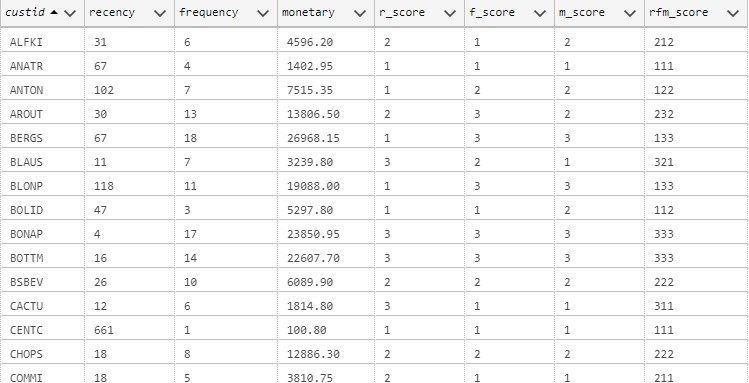
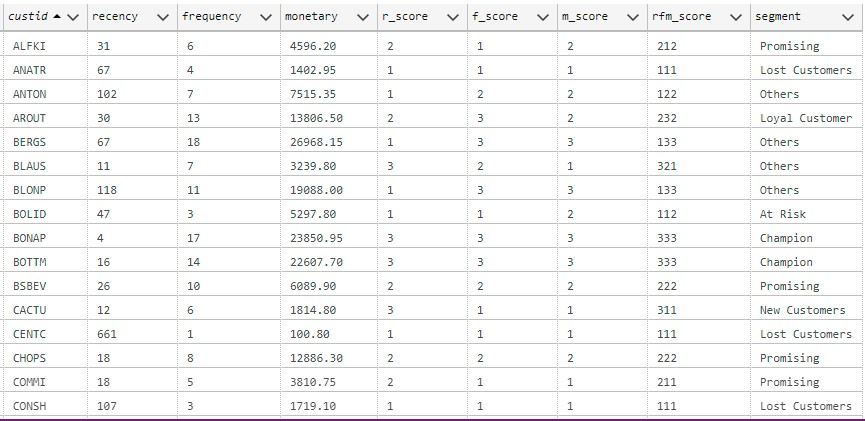
update

Changed region(s): [[0.0, 0.0, 1.0, 1.0]]

diff --git a/projects/rfm_customer_segmentation.html b/projects/rfm_customer_segmentation.html
@@ -137,7 +137,12 @@
 									then creating FRM scores based on three tables Customers, Orders, and Order Details. Valuation date is set to 10 May 1998 but 
 									can be changed. Python package <b>pyodbc</b> is used to manage the SQL server connection and execute scripts, <b>plotly</b> is used for explanatory
 									analysis and data visualization.  
-								
+									
+									<h5>Example of creating the segment table</h5>
+									<a href="../assets/images/projects/project7/sql_create_segment.jpg" class="image main"><img src="../assets/images/projects/project7/sql_create_segment.jpg" alt="" /></a><p></p>
+									<h5>Example of calculating customer statistics and rfm scores</h5>
+									<a href="../assets/images/projects/project7/sql_create_rfm_scores.jpg" class="image main"><img src="../assets/images/projects/project7/sql_create_rfm_scores.jpg" alt="" /></a><p></p>
+							 
 								</p>
 								
                                 <h3>5. Results and Conclusion:</h3>	
